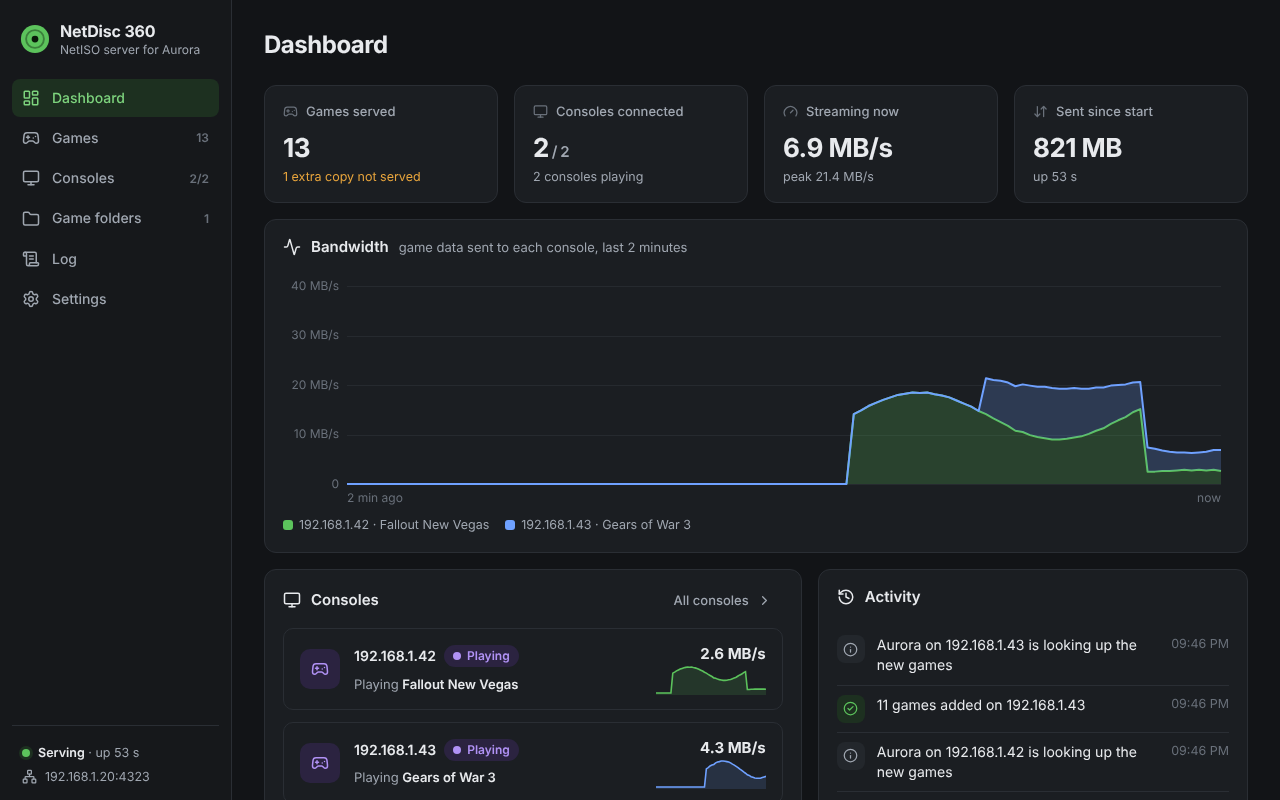
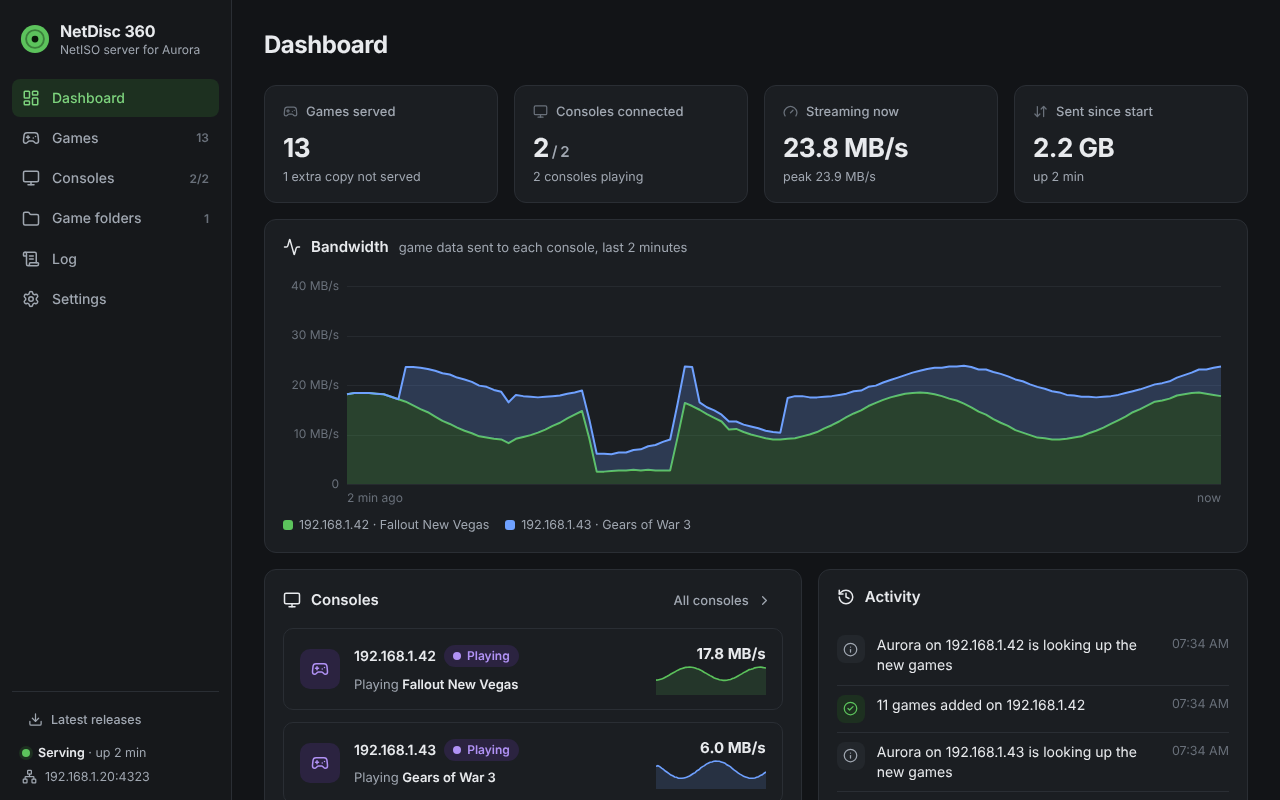
README: pictures of every part in use
The dashboard picture is retaken from the current build, and new ones show
the first run, the Games and Consoles pages, a game's details, the
dashboard's password setting next to a phone, choosing a copy of a game,
updates and backups, and the loading screen waiting after a reboot and
showing an error. The GIFs of the dashboard and the launcher sit after the
feature list, and the logo intro in Playing.

Also: the update rollback and the session key in Updating and Security, and
the preview's server error worded as the launcher has it.

Claude-Session: https://claude.ai/code/session_01KJpstiqBKf7GkuFrTKv7aM

diff --git a/tests/ui_preview.cpp b/tests/ui_preview.cpp
@@ -110,9 +110,9 @@ int main(int argc, char** argv) {
     else if(!strcmp(scene,"disc")) { s.step=nia::StepDisc; s.fraction=0.62; strcpy(s.status,"The disc is going in. Waiting for the console to read it"); s.time=0.7; }
     else if(!strcmp(scene,"start")) { s.step=nia::StepStart; s.fraction=1; strcpy(s.status,"Starting Skate 3"); }
     else if(!strcmp(scene,"no-server")) Error(s,nia::StepServer,"Can't reach the NetISO server",
-        "Nothing answered at 192.168.1.20, port 4323, for 2 minutes.",
+        "Nothing answered at 192.168.1.20, port 4323.",
         "Start NetDisc 360 on the PC, and check that the PC and the Xbox",
-        "are on the same network. The address is in Hdd1:\\netiso.xex.txt.",true);
+        "are on the same network. The address is in Usb0:\\netiso.xex.txt.",true);
     else if(!strcmp(scene,"not-listed")) Error(s,nia::StepMount,"Skate 3 isn't on the server",
         "The server doesn't list Skate 3 (USA, Europe) (En,Fr,De,Es,It,Nl).iso.",
         "It may have been renamed, moved or deleted on the PC. The server",

diff --git a/README.md b/README.md
@@ -22,7 +22,7 @@
 </p>
 
 <p align="center">
-  <img src="docs/images/dashboard.png" alt="The NetDisc 360 dashboard: 13 games served, two consoles each playing a different game, and a chart of the game data sent to each console over the last two minutes" width="800">
+  <img src="docs/images/dashboard.png" alt="The NetDisc 360 dashboard: 13 games served, two consoles each playing a different game at 24 MB/s together, and a chart of the game data sent to each console over the last two minutes" width="800">
   <br>
   <sub>The dashboard on your PC or NAS: your games, every console and what it's playing, and how fast each game streams.</sub>
 </p>
@@ -36,6 +36,13 @@ Keep your games on your PC or NAS and play them on your Xbox 360 just like insta
 - **Multi-disc games just work.** Each disc gets its own tile, and when a game asks for its next disc, NetDisc 360 puts it in for you. A game with an install disc, like GTA V, offers to install it first.
 - **Feels like the real thing.** A loading screen you can cancel with B, a clear message when something is wrong, and the Guide keeps working in your games.
 - **Faster than the disc.** With a gigabit USB network adapter, games read at up to about 26 MB/s, where the console's own DVD drive manages about 16 MB/s at best and NetISO on its own about 7 MB/s.
+
+<p align="center">
+  <img src="docs/images/dashboard.gif" alt="The dashboard as two consoles connect: new games are added to each console's Aurora, then one console starts Halo Reach while the other plays Gears of War 3" width="42%">
+  <img src="docs/images/launcher.gif" alt="A game starting on the Xbox: the NetDisc 360 logo, then the loading screen's four steps, Server, Mount, Disc and Start" width="56%">
+  <br>
+  <sub>In action: two consoles get their games and play at the same time (left), and a game starts on the Xbox (right).</sub>
+</p>
 
 **For the homebrew crowd.** NetDisc 360 is an open-source [NetISO](https://consolemods.org/wiki/Xbox_360:Playing_Games_over_Network_(NetISO)) server that replaces `netiso-srv`, for any modded 360 with DashLaunch and Aurora: RGH, JTAG, or a stock console with BadUpdate or ABadAvatar. Extracted games and GOD packages are served as virtual discs, so nothing gets converted to ISO. Each game gets a small launcher XEX with the game's own Title ID and Media ID, so Aurora scans it as the real game and fetches its art, title updates and DLC itself. A DashLaunch plugin patches `NetISO.xex` in memory: it stops NetISO from killing the Guide, lifts its read loop from 4 KB per request to 64 KB or more with a bigger receive buffer, and answers a game's `XSwapDisc` by mounting the other disc. One exe for Windows with a web dashboard, or a Docker image for Linux and NAS. [How it works](docs/how-it-works.md) has the details.
 
@@ -157,6 +164,27 @@ NetDisc 360 brings the PC side and the console plugin that ties it to Aurora. Th
 - When Windows Firewall asks, allow it on **private networks**.
 - **From your phone or another computer:** under **Settings > Dashboard**, set a password and turn on **Other devices can open it**. Then open `http://<your PC's address>:8360` there.
 
+<p align="center">
+  <img src="docs/images/first-run.png" alt="The dashboard on a first run: Get started, with the game folder added (13 games) and the next two steps, telling NetISO where the PC is and turning on Aurora's FTP server" width="49%">
+  <img src="docs/images/games.jpg" alt="The Games page: games as covers, each marked ISO, Extracted or GOD, two of them showing the console playing them" width="49%">
+  <br>
+  <sub>The first run walks you through setup (left). The Games page shows every game, its format, and which console is playing it (right).</sub>
+</p>
+
+<p align="center">
+  <img src="docs/images/game-details.jpg" alt="A game's details: Gears of War, an ISO disc image of 7.54 GB, its Title ID, disc number, folder and path, and its name in Aurora" width="49%">
+  <img src="docs/images/consoles.png" alt="The Consoles page: two consoles, each playing a game, with what it was sent, its ping, whether its Aurora answers, when its game folders were updated, and its recent activity" width="49%">
+  <br>
+  <sub>A game's details (left), and the Consoles page with what each console is doing (right).</sub>
+</p>
+
+<p align="center">
+  <img src="docs/images/settings-dashboard.png" alt="Settings, Dashboard: the theme, cover art, Other devices can open it (on) and the dashboard's password (set)" width="72.5%">
+  <img src="docs/images/phone.png" alt="The dashboard on a phone: games served, two consoles playing, 20 MB/s streaming and the bandwidth chart" width="24.5%">
+  <br>
+  <sub>Set a password and let other devices in (left), then check on your games from your phone (right).</sub>
+</p>
+
 Settings are saved in `%APPDATA%\NetDisc 360\netdisc.ini`, with the FTP password encrypted for your Windows user. The **Log** page shows what the server does. The exe also still runs from a command prompt with [options](#the-server-in-detail), with the same dashboard.
 
 **With Docker** (Linux, a NAS, a Raspberry Pi): see [Docker](#docker) below.
@@ -210,13 +238,24 @@ It uses the image `ghcr.io/marcusisdahl/netdisc-360`, published with each releas
 
 ## Playing
 
-Pick the game's tile. The loading screen shows four steps (Server, Mount, Disc and Start), a bar that fills to 100%, and how long it has been since you pressed the tile. Then the game starts.
+Pick the game's tile. The NetDisc 360 logo plays for two seconds while the game already loads underneath (any button skips it). Then the loading screen shows four steps (Server, Mount, Disc and Start), a bar that fills to 100%, and how long it has been since you pressed the tile. Then the game starts.
+
+<p align="center">
+  <img src="docs/images/logo-intro.gif" alt="The NetDisc 360 logo intro: the disc draws itself, then the name and the tagline, Network games for homebrew Xbox 360" width="480">
+</p>
 
 <p align="center">
   <img src="docs/images/loading-screen.png" alt="The loading screen: Skate 3 at the Disc step, 62%, with B to cancel" width="49%">
   <img src="docs/images/install-notice.png" alt="GTA V's install notice: A starts the install disc, X plays anyway, B goes back to Aurora" width="49%">
   <br>
   <sub>The loading screen, and the notice for a game whose install disc hasn't been installed yet.</sub>
+</p>
+
+<p align="center">
+  <img src="docs/images/loading-wait.png" alt="The loading screen right after a reboot: The Xbox's network is still starting after the reboot. Waiting for the server... 42 s" width="49%">
+  <img src="docs/images/loading-error.png" alt="The loading screen's error for a server that doesn't answer: Can't reach the NetISO server, with what to check, and A for Aurora or X to try again" width="49%">
+  <br>
+  <sub>Right after a reboot it waits for the network (left). When something is wrong, it says what and what to do (right).</sub>
 </p>
 
 - **B cancels at any step** and goes back to Aurora at once.
@@ -299,7 +338,14 @@ More on [github.com/marcusisdahl](https://github.com/marcusisdahl).
 
 ## Updating
 
-**On Windows** NetDisc 360 looks for a new version on GitHub twice a day. When one is out, the dashboard says so and **Settings > Updates** shows what's new; **Install and restart** backs up your settings, downloads the new `NetDisc.exe`, checks it against the release's checksum, puts it in place of the old one and starts it again. Turn on **Install updates by themselves** and it does that on its own while no console is playing. **Include test versions** offers pre-releases too. To update by hand instead, quit NetDisc 360 from its notification-area icon, replace `NetDisc.exe` with the new one and start it again; the settings stay either way.
+**On Windows** NetDisc 360 looks for a new version on GitHub twice a day. When one is out, the dashboard says so and **Settings > Updates** shows what's new; **Install and restart** backs up your settings, downloads the new `NetDisc.exe`, checks it against the release's checksum, puts it in place of the old one and starts it again. Should the new version not start, the old one puts itself back within two minutes, says so on the dashboard, and doesn't install that version by itself again. Turn on **Install updates by themselves** and it does that on its own while no console is playing. **Include test versions** offers pre-releases too. To update by hand instead, quit NetDisc 360 from its notification-area icon, replace `NetDisc.exe` with the new one and start it again; the settings stay either way.
+
+<p align="center">
+  <img src="docs/images/updates.png" alt="Settings, Updates: NetDisc 360 1.1.0 is out, with Install and restart, what's new in it, and the update options" width="49%">
+  <img src="docs/images/backups.png" alt="Settings, Backups: Back up now, Restore from a file, weekly automatic backups keeping the newest five, and the list of backups with Download and Restore" width="49%">
+  <br>
+  <sub>A new version, with what's new and one click to install it (left), and your settings' backups (right).</sub>
+</p>
 
 **With Docker** the dashboard shows that a new version is out, and you update the image yourself: `docker compose pull && docker compose up -d`.
 
@@ -319,6 +365,12 @@ What `NetDisc.exe` does, all from one file:
 - **Puts the games in Aurora's Xbox 360 category** (see below).
 - **Serves each game once.** A game that is there more than once (the same Title ID and disc, as an ISO, a folder or a package) is a conflict: the dashboard shows a notice and a badge on **Games**, the activity list says so, and on Windows the icon shows a notification. The **Games** page lists every copy with its path; **Play this one** picks the copy to serve, and the choice is kept in the settings file. Until you choose, an ISO is served before a GOD package before a folder. A copy that turns up later, or the chosen copy going, asks again.
 - **Serves several consoles at once.** Each console plays its own game, and each one's `Hdd1:\NetISO` is kept current on its own: one console being off doesn't hold up another.
+
+<p align="center">
+  <img src="docs/images/conflicts.png" alt="Choose which copy to play: Halo Reach is in the folders twice, as E:\Games\Halo Reach (backup).iso (playing now) and D:\Xbox 360\Halo Reach.iso, each with a button to play it" width="800">
+  <br>
+  <sub>A game that's in your folders twice: pick the copy to play on the Games page.</sub>
+</p>
 
 | Option | Default | |
 |---|---|---|
@@ -366,10 +418,10 @@ Some games come on two discs, one of which only installs content: GTA V's second
 
 - **Change Aurora's FTP login.** Aurora's default login (`xboxftp` / `xboxftp`) lets anyone on your network read and write the console's drives. Set your own in Aurora's settings and enter it on the dashboard's **Settings** page (or `NETDISC_FTP_USER`/`NETDISC_FTP_PASSWORD` in Docker, or `--ftp-user`/`--ftp-password`). FTP sends the login unencrypted, so keep the console on a network you trust. On Windows the settings file keeps the password encrypted for your Windows user; the dashboard never shows it again, and the server never writes it to its log.
 - **Keep the NetISO server on your home network.** The NetISO protocol has no login: anything that can reach port 4323 can list and read the games you serve. Don't forward that port from the internet. When Windows Firewall asks, allow `NetDisc.exe` on private networks only. The Docker image runs as an unprivileged user and only needs read access to your games.
-- **Give the dashboard a password when other devices can open it.** On Windows only the PC itself can open it until you turn on **Other devices can open it**, which needs a password. In Docker it is open to your network, so set one. The password is kept only as a salted hash; logging in gives the browser a cookie for 30 days, and changing the password logs every browser out. Without a password the dashboard only answers to addresses and local names (like `nas.local`), so a web site can't reach it through your browser, and settings only change from its own page. Don't forward port 8360 from the internet either.
+- **Give the dashboard a password when other devices can open it.** On Windows only the PC itself can open it until you turn on **Other devices can open it**, which needs a password. In Docker it is open to your network, so set one. The password is kept only as a salted hash; logging in gives the browser a cookie for 30 days, and changing the password logs every browser out. Without a password the dashboard only answers to addresses and local names (like `nas.local`), so a web site can't reach it through your browser, and it only takes requests from its own page. The login cookie is signed with a random key kept next to the settings file (`session.key`), not with anything a backup holds. Don't forward port 8360 from the internet either.
 - **Covers on the dashboard.** Your browser downloads them from GitHub (the XboxUnity-Scraper archive), asking only for each game's Title ID. Turn them off under **Settings > Dashboard**. **Latest releases** (in the sidebar) asks GitHub for the newest version of NetDisc 360, FastFTP and CUsbEnet only when you open it. Apart from the update check below, the server itself never goes online.
 - **Backups hold Aurora's FTP login and the dashboard password's hash**, like the settings file (the FTP password is encrypted on Windows, so a backup restored on another PC or in Docker keeps the FTP password already set there). Keep downloaded backups where only you can read them.
-- **Updates come only from this project's GitHub releases.** On Windows the server asks GitHub's API for the newest release and, when you install it, downloads its `NetDisc.exe` over HTTPS and installs it only if its size and SHA-256 match what GitHub lists for the release. Turn off **Look for updates** under **Settings > Updates** to stop it. In Docker the dashboard asks GitHub from your browser instead.
+- **Updates come only from this project's GitHub releases.** On Windows the server asks GitHub's API for the newest release and, when you install it, downloads its `NetDisc.exe` over HTTPS and installs it only if it comes from this project's releases and its size and SHA-256 match what GitHub lists for the release. Turn off **Look for updates** under **Settings > Updates** to stop it. In Docker the dashboard asks GitHub from your browser instead.
 - The server only reads your game folders; it never writes to them. On the console it writes only inside `--xbox-folder` and, unless `--no-category`, the one Aurora script above.
 
 ## Limitations
